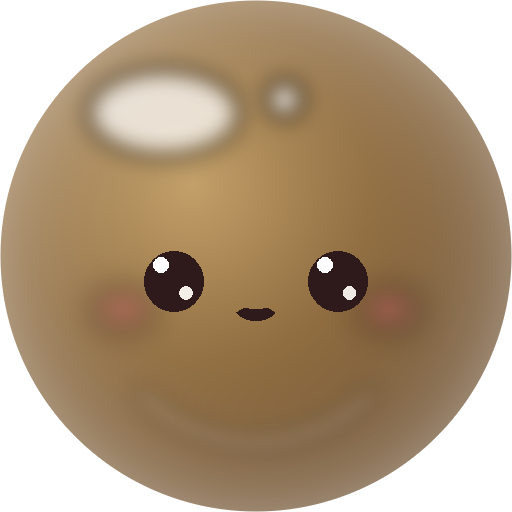
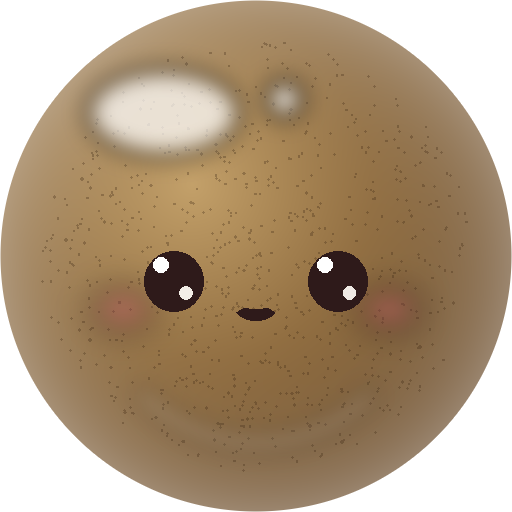
fix(canvas): 兼容旧浏览器圆角路径并修复开始按钮渲染；增强粒子特效与水果纹理

Changed region(s): [[0.5625, 0.4062, 0.625, 0.4375]]

diff --git a/game.js b/game.js
@@ -63,18 +63,34 @@
     const coinGain=Math.max(1,Math.ceil(FRUITS[l].score/16))+(combo>1?combo-1:0);addCoins(coinGain,x,y-20);floatText(x,y-n.r,combo>1?`+${gain}  COMBO×${combo}`:`+${gain}`,'#ff4b1f');burst(x,y,l);waves.push({x,y,r:n.r*.45,max:n.r*2.3,a:.8});shake=Math.min(9,shake+2+l*.5);
   }
   function drop(){if(!canDrop||!running)return;const r=radius(current),x=Math.max(stage.x+r,Math.min(stage.x+stage.w-r,aimX));bodies.push(body(current,x,stage.y+r+4));current=next;next=rand();canDrop=false;setTimeout(()=>canDrop=true,340);}
-  function burst(x,y,l){const colors=['#ff7b54','#ffd166','#73d2de','#ff99c8','#9ef01a'];for(let k=0;k<10+l*2;k++){const a=Math.random()*6.28,s=65+Math.random()*170;particles.push({x,y,vx:Math.cos(a)*s,vy:Math.sin(a)*s-60,life:1,c:colors[k%colors.length],z:3+Math.random()*4});}}
+  function burst(x,y,l){
+    // 三层特效：果汁圆粒 + 菱形彩纸 + 闪亮星星
+    const colors=['#ff7b54','#ffd166','#73d2de','#ff99c8','#9ef01a','#ffffff'];
+    for(let k=0;k<16+l*3;k++){const a=Math.random()*6.283,s=75+Math.random()*205;particles.push({x,y,vx:Math.cos(a)*s,vy:Math.sin(a)*s-75,life:1,c:colors[k%colors.length],z:3+Math.random()*5,type:k%3===0?'diamond':'dot',spin:(Math.random()-.5)*12});}
+    for(let k=0;k<3+Math.floor(l/3);k++){const a=Math.random()*6.283, d=12+Math.random()*22;particles.push({x:x+Math.cos(a)*d,y:y+Math.sin(a)*d,vx:Math.cos(a)*45,vy:Math.sin(a)*45-35,life:.85,c:'#fff8bd',z:7+Math.random()*4,type:'star'});}
+  }
   function floatText(x,y,t,c){particles.push({text:t,x,y,vy:-48,life:1.2,c,z:0});}
   function hitHammer(x,y){ let target=null,d=1e9; for(const b of bodies){const v=Math.hypot(x-b.x,y-b.y);if(v<b.r&&v<d){target=b;d=v;}}if(target){bodies=bodies.filter(b=>b!==target);burst(target.x,target.y,target.level);waves.push({x:target.x,y:target.y,r:8,max:target.r*2,a:.9});hammer=false;return true;}return false; }
   function doShake(){for(const b of bodies){b.vx+=(Math.random()-.5)*330;b.vy-=80+Math.random()*110;}shake=10;}
   function checkLose(dt){const line=stage.y+stage.h*.17, now=performance.now();let bad=false;for(const b of bodies)if(now-b.born>850&&b.y-b.r<line&&Math.abs(b.vy)<50){bad=true;break;} danger=bad?danger+dt*1000:0;if(danger>1200){running=false;screen='over';}}
 
   // ------- Canvas UI -------
-  function rr(x,y,w,h,r,fill,stroke){X.beginPath();X.roundRect(x,y,w,h,r);if(fill){X.fillStyle=fill;X.fill();}if(stroke){X.strokeStyle=stroke;X.stroke();}}
+  function roundedPath(x,y,w,h,r){
+    // CanvasRenderingContext2D.roundRect 在部分旧版 Android WebView / Safari 不可用；手动路径确保开始页可点击。
+    r=Math.max(0,Math.min(r,w/2,h/2));
+    X.beginPath();X.moveTo(x+r,y);X.lineTo(x+w-r,y);X.quadraticCurveTo(x+w,y,x+w,y+r);
+    X.lineTo(x+w,y+h-r);X.quadraticCurveTo(x+w,y+h,x+w-r,y+h);X.lineTo(x+r,y+h);
+    X.quadraticCurveTo(x,y+h,x,y+h-r);X.lineTo(x,y+r);X.quadraticCurveTo(x,y,x+r,y);X.closePath();
+  }
+  function rr(x,y,w,h,r,fill,stroke){roundedPath(x,y,w,h,r);if(fill){X.fillStyle=fill;X.fill();}if(stroke){X.strokeStyle=stroke;X.lineWidth=1;X.stroke();}}
   function text(s,x,y,size,color,align='left',weight=700){X.font=`${weight} ${size}px ${ui.font}`;X.fillStyle=color;X.textAlign=align;X.textBaseline='middle';X.fillText(s,x,y);}
   function image(im,x,y,w,h){if(im?.complete)X.drawImage(im,x,y,w,h);}
   function button(id,x,y,w,h,label,fn,kind='normal') { buttons.push({id,x,y,w,h,fn}); const bg=kind==='gold'?'#ffb52e':kind==='danger'?'#ff745f':'rgba(255,255,255,.84)';rr(x,y,w,h,h/2,bg,kind==='gold'?'#db8800':'rgba(213,130,30,.4)');text(label,x+w/2,y+h/2,Math.min(14,h*.45),kind==='gold'?'#773900':'#7b4311','center',800); }
-  function drawBackground(){const g=X.createLinearGradient(0,0,0,H);g.addColorStop(0,'#ffedb1');g.addColorStop(1,'#ffc965');X.fillStyle=g;X.fillRect(0,0,W,H);for(let x=20;x<W;x+=68)for(let y=12;y<H;y+=68){X.fillStyle='rgba(255,255,255,.16)';X.beginPath();X.arc(x+(y/68%2)*16,y,7,0,6.28);X.fill();}}
+  function drawBackground(){
+    const g=X.createLinearGradient(0,0,0,H);g.addColorStop(0,'#fff0bd');g.addColorStop(.52,'#ffd978');g.addColorStop(1,'#ffc05d');X.fillStyle=g;X.fillRect(0,0,W,H);
+    const halo=X.createRadialGradient(W*.5,H*.18,5,W*.5,H*.18,W*.65);halo.addColorStop(0,'rgba(255,255,255,.52)');halo.addColorStop(1,'rgba(255,255,255,0)');X.fillStyle=halo;X.fillRect(0,0,W,H);
+    for(let x=20;x<W;x+=68)for(let y=12;y<H;y+=68){X.fillStyle='rgba(255,255,255,.16)';X.beginPath();X.arc(x+(y/68%2)*16,y,7,0,6.28);X.fill();}
+  }
   function drawHud(){
     const gap=6, bw=(W-28)/3;[['得分',String(score),'#d94a14'],['💰 金币',String(coins),'#c77c00'],['最高',String(best),'#d94a14']].forEach((a,i)=>{const x=10+i*(bw+gap);rr(x,9,bw,47,12,'rgba(255,255,255,.76)','rgba(231,163,54,.55)');text(a[0],x+bw/2,24,10,'#9e5b1a','center');text(a[1],x+bw/2,42,19,a[2],'center',900);});
     rr(10,65,100,38,18,'rgba(255,255,255,.75)','rgba(231,163,54,.5)');text('下一个',20,84,11,'#875014');image(I[FRUITS[next].img],76,69,30,30);
@@ -84,11 +100,11 @@
   function drawStage(){
     const {x,y,w,h}=stage;rr(x,y,w,h,20,'rgba(255,255,255,.22)','rgba(197,125,32,.75)');
     const ly=y+h*.17;X.save();X.setLineDash([6,6]);X.strokeStyle=danger?'#ff304f':'rgba(220,65,60,.62)';X.lineWidth=2;X.beginPath();X.moveTo(x,ly);X.lineTo(x+w,ly);X.stroke();X.restore();text('警戒线',x+w-8,ly-8,9,'#e13b38','right');
-    X.save();X.beginPath();X.roundRect(x,y,w,h,20);X.clip();if(shake){X.translate((Math.random()-.5)*shake,(Math.random()-.5)*shake);}
+    X.save();roundedPath(x,y,w,h,20);X.clip();if(shake){X.translate((Math.random()-.5)*shake,(Math.random()-.5)*shake);}
     if(running&&canDrop){const r=radius(current),px=Math.max(x+r,Math.min(x+w-r,aimX));X.save();X.setLineDash([5,7]);X.strokeStyle='rgba(255,255,255,.75)';X.beginPath();X.moveTo(px,y+r*2+5);X.lineTo(px,y+h);X.stroke();X.restore();drawFruit(current,px,y+r+5,r,1,1);}
     bodies.forEach(b=>drawFruit(b.level,b.x,b.y,b.r,b.sx,b.sy));
     waves.forEach(v=>{X.strokeStyle=`rgba(255,255,255,${v.a})`;X.lineWidth=3;X.beginPath();X.arc(v.x,v.y,v.r,0,6.28);X.stroke();});
-    particles.forEach(p=>{X.globalAlpha=Math.max(0,p.life);if(p.text)text(p.text,p.x,p.y,15,p.c,'center',900);else{X.fillStyle=p.c;X.beginPath();X.arc(p.x,p.y,p.z*p.life,0,6.28);X.fill();}X.globalAlpha=1;});
+    particles.forEach(p=>{X.globalAlpha=Math.max(0,p.life);if(p.text)text(p.text,p.x,p.y,15,p.c,'center',900);else if(p.type==='star'){X.fillStyle=p.c;X.beginPath();for(let q=0;q<10;q++){const a=-Math.PI/2+q*Math.PI/5, r=q%2?p.z*.42:p.z;const px=p.x+Math.cos(a)*r,py=p.y+Math.sin(a)*r;q?X.lineTo(px,py):X.moveTo(px,py);}X.closePath();X.fill();}else if(p.type==='diamond'){X.save();X.translate(p.x,p.y);X.rotate((p.spin||0)*(1-p.life));X.fillStyle=p.c;X.fillRect(-p.z/2,-p.z/2,p.z,p.z);X.restore();}else{X.fillStyle=p.c;X.beginPath();X.arc(p.x,p.y,p.z*p.life,0,6.28);X.fill();}X.globalAlpha=1;});
     X.restore();
     if(hammer){rr(W/2-115,y+10,230,30,15,'#f95f50');text('🔨 消除模式：点击场上任意水果',W/2,y+25,13,'#fff','center',900);}
   }
@@ -110,11 +126,12 @@
   function buyFruit(l){const f=FRUITS[l];if(coins<f.price)return;coins-=f.price;saveCoins();current=l;screen='game';}
   function buyProp(type,cost){if(!running||coins<cost)return;coins-=cost;saveCoins();if(type==='hammer'){hammer=!hammer;}else doShake();}
   function render(){buttons=[];drawBackground();if(screen==='game'){drawHud();drawStage();drawBottom();drawEvolution();}else if(screen==='start')drawStart();else if(screen==='over')drawOver();else if(screen==='shop'){drawHud();drawStage();drawBottom();drawEvolution();drawShop();}}
-  function update(dt){if(running&&screen==='game'){for(let i=0;i<6;i++)physics(dt/6);checkLose(dt);}particles.forEach(p=>{p.y+=(p.vy||0)*dt;if(!p.text){p.x+=p.vx*dt;p.vy+=900*dt;}p.life-=dt*(p.text?.85:1.55);});particles=particles.filter(p=>p.life>0);waves.forEach(w=>{w.r+=(w.max-w.r)*dt*9;w.a-=dt*2.5;});waves=waves.filter(w=>w.a>0);shake=Math.max(0,shake-dt*28);}
+  function update(dt){if(running&&screen==='game'){for(let i=0;i<6;i++)physics(dt/6);checkLose(dt);}particles.forEach(p=>{p.y+=(p.vy||0)*dt;if(!p.text){p.x+=p.vx*dt;p.vy+=900*dt;}if(p.spin)p.spin*=.985;p.life-=dt*(p.text?.85:1.55);});particles=particles.filter(p=>p.life>0);waves.forEach(w=>{w.r+=(w.max-w.r)*dt*9;w.a-=dt*2.5;});waves=waves.filter(w=>w.a>0);shake=Math.max(0,shake-dt*28);}
   function loop(t){const dt=Math.min(.033,(t-last)/1000);last=t;update(dt);render();requestAnimationFrame(loop);}
 
   function point(e){const r=C.getBoundingClientRect();return {x:e.clientX-r.left,y:e.clientY-r.top};}
-  C.addEventListener('pointerdown',e=>{pointerDown=true;const p=point(e);aimX=p.x;C.setPointerCapture?.(e.pointerId);});
+  C.addEventListener('pointerdown',e=>{pointerDown=true;const p=point(e);aimX=p.x;try{C.setPointerCapture(e.pointerId);}catch(_){}});
+  C.addEventListener('pointercancel',()=>{pointerDown=false;});
   C.addEventListener('pointermove',e=>{if(pointerDown||e.pointerType==='mouse')aimX=point(e).x;});
   C.addEventListener('pointerup',e=>{const p=point(e);pointerDown=false;const hit=buttons.find(b=>p.x>=b.x&&p.x<=b.x+b.w&&p.y>=b.y&&p.y<=b.y+b.h);if(hit){hit.fn();return;}if(screen==='game'){if(hammer){hitHammer(p.x,p.y);}else if(p.x>=stage.x&&p.x<=stage.x+stage.w&&p.y>=stage.y&&p.y<=stage.y+stage.h)drop();}});
   C.addEventListener('contextmenu',e=>e.preventDefault());window.addEventListener('resize',resize);document.addEventListener('touchmove',e=>e.preventDefault(),{passive:false});

diff --git a/generate_assets.py b/generate_assets.py
@@ -70,6 +70,20 @@ def add_gloss(img):
     layer = layer.filter(ImageFilter.GaussianBlur(SIZE // 45))
     return Image.alpha_composite(img, layer)
 
+def add_surface_detail(img, color, amount=70, size=2, seed=1):
+    """在球面可见区添加细腻斑点/绒毛，不依赖外部素材。"""
+    rng = np.random.default_rng(seed)
+    layer = Image.new("RGBA", (SIZE, SIZE), (0, 0, 0, 0))
+    d = ImageDraw.Draw(layer)
+    for _ in range(amount):
+        angle = float(rng.random() * math.tau)
+        # 中心略稀、边缘不越出球面
+        distance = float((rng.random() ** .55) * SIZE * .42)
+        x, y = SIZE/2 + math.cos(angle)*distance, SIZE/2 + math.sin(angle)*distance
+        rad = size * (0.55 + float(rng.random())*.8)
+        d.ellipse([x-rad, y-rad, x+rad, y+rad], fill=color)
+    return Image.alpha_composite(img, layer)
+
 def clip_circle(img):
     mask = Image.new("L", (SIZE, SIZE), 0)
     ImageDraw.Draw(mask).ellipse([0, 0, SIZE - 1, SIZE - 1], fill=255)
@@ -154,6 +168,7 @@ def draw_stem(img, cx=0.5, cy=0.07, h=0.10, color=(120, 85, 50)):
 # ---- 水果渲染 ----
 def make_grape():
     img = create_sphere_base((220, 170, 255), (155, 80, 215), (95, 35, 150))
+    img = add_surface_detail(img, (100, 40, 155, 42), 64, 2.2, 19)
     img = add_gloss(img)
     img = draw_kawaii_face(img, "sleepy")
     img = draw_stem(img, 0.5, 0.03, 0.08, (90, 130, 60))
@@ -192,6 +207,7 @@ def make_lemon():
 
 def make_kiwi():
     img = create_sphere_base((195, 160, 105), (145, 110, 65), (95, 65, 35))
+    img = add_surface_detail(img, (62, 40, 19, 78), 900, 0.85, 71)
     img = add_gloss(img)
     img = draw_kawaii_face(img, "shy")
     return clip_circle(img)
@@ -231,6 +247,7 @@ def make_pineapple():
 
 def make_coconut():
     img = create_sphere_base((180, 140, 95), (120, 85, 55), (75, 50, 30))
+    img = add_surface_detail(img, (65, 41, 22, 60), 160, 1.8, 31)
     d = ImageDraw.Draw(img)
     for i in (-1, 0, 1):
         x = SIZE * 0.5 + i * SIZE * 0.12
